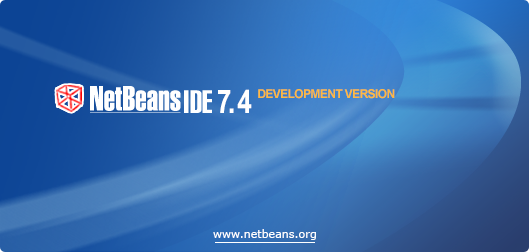
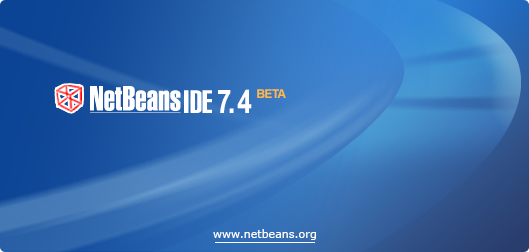
7.4 Beta branding. (transplanted from 6838b45042f1d479d1956c081b0933ca37597682)

Changed region(s): [[0.4839, 0.3333, 0.7561, 0.3889]]

diff --git a/installer/infra/build/web/js/build_info.js b/installer/infra/build/web/js/build_info.js
@@ -54,17 +54,18 @@ build_info.ADDITIONAL_BUILD_LOCATION   = "{alternative.languages.page.url}";
 
 build_info.BUILD_LOCATION = "";
 
-build_info.LOAD_OMNITURE_CODE          = 0;
-build_info.LOAD_GOOGLE_ANALYTICS_CODE  = 0;
+build_info.LOAD_OMNITURE_CODE          = 1;
+build_info.LOAD_GOOGLE_ANALYTICS_CODE  = 1;
 build_info.USE_BOUNCER                 = 0;
 build_info.ADD_VERSION_INFO_TO_URL     = 0;
 
 build_info.BOUNCER_URL = "http://services.netbeans.org/bouncer/index.php";
 
-build_info.USE_HTML_ZIP_LISTING = 0;
+build_info.USE_HTML_ZIP_LISTING = 1;
 
 build_info.add_download_tabs = function() {
 	add_download_tab("7.3.1", "http://netbeans.org/downloads/");
+        add_download_tab("7.4 Beta");
 	add_download_tab(DEVELOPMENT_TITLE /*,DEVELOPMENT_BUILDS_LINK*/);
 	add_download_tab(ARCHIVE_TITLE,ARCHIVE_BUILDS_LINK);
 }

diff --git a/installer/infra/build/web/js/common_strings.js b/installer/infra/build/web/js/common_strings.js
@@ -75,8 +75,8 @@ BUNDLE_LONG_NAMES[2] = "C/C++";
 BUNDLE_LONG_NAMES[3] = "PHP";
 BUNDLE_LONG_NAMES[4] = "All";
 
-var RELEASE_NOTES_LINK  = "http://netbeans.org/community/releases/70/relnotes.html";
-var INSTALL_NOTES_LINK  = "http://netbeans.org/community/releases/70/install.html";
+var RELEASE_NOTES_LINK  = "http://netbeans.org/community/releases/74/relnotes.html";
+var INSTALL_NOTES_LINK  = "http://netbeans.org/community/releases/74/install.html";
 
 var LEGAL_INFO_HEADER = "Important Legal Information:";
 
